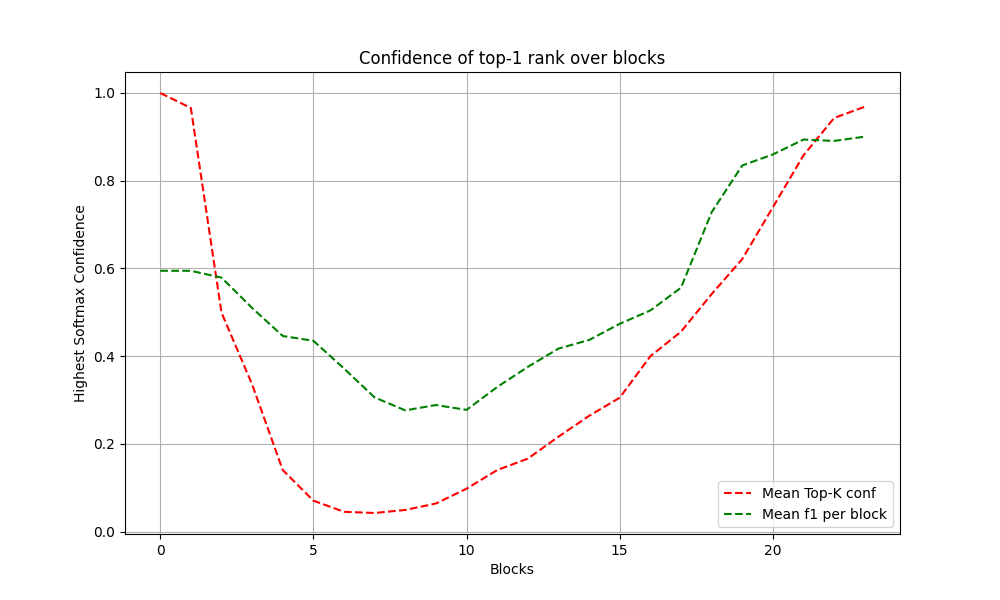
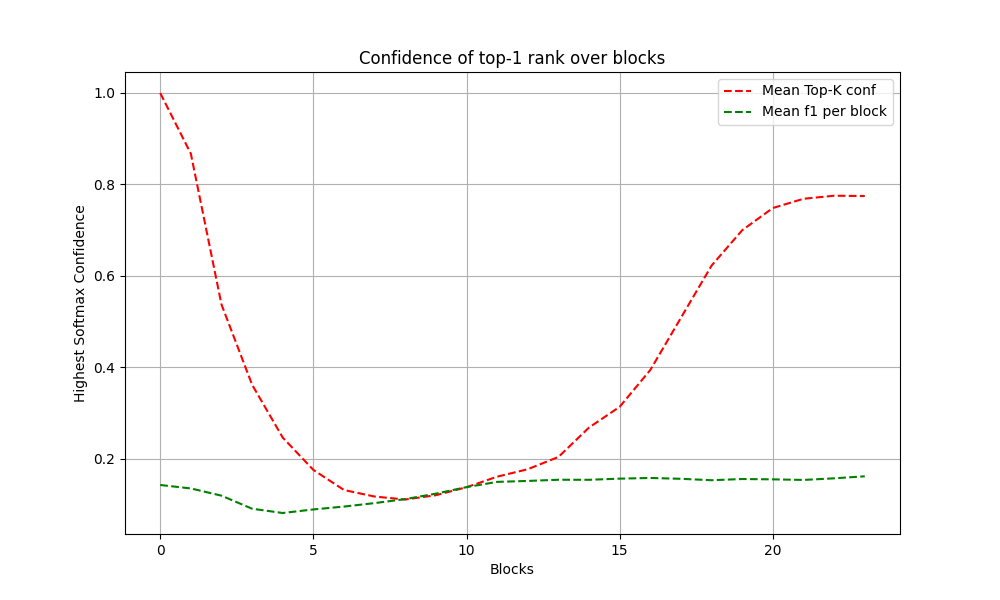
Fixed Softmax

diff --git a/run_summarization.py b/run_summarization.py
@@ -21,6 +21,10 @@ Fine-tuning the library models for sequence to sequence.
 from dataclasses import dataclass, field
 from typing import Optional
 
+import seaborn as sns
+import pandas as pd
+import matplotlib.pyplot as plt
+import copy
 import logging
 import os
 import sys
@@ -28,6 +32,8 @@ import nltk  # Here to have a nice missing dependency error message early on
 import numpy as np
 import torch
 from filelock import FileLock
+
+from sklearn.metrics import f1_score
 
 import datasets
 import evaluate
@@ -426,7 +432,7 @@ def main(model_args, data_args, training_args, additional_args, model_cls, train
 
     def compute_metrics(eval_preds, compute_metrics=True):
         if compute_metrics:
-            preds, labels, inputs = eval_preds
+            preds, labels = eval_preds
         else:
             preds, labels = eval_preds
         if isinstance(preds, tuple):
@@ -513,6 +519,147 @@ def main(model_args, data_args, training_args, additional_args, model_cls, train
             
         else:
             metrics = trainer.evaluate(metric_key_prefix="eval")
+
+        if additional_args.plotting_logits:
+            
+            filtered_labels = [[item for item in sublist if item != -100] for sublist in eval_dataset["labels"]]
+            
+
+            data = model.decoder.graph_top_k_list
+            data_conf = model.decoder.graph_top_k_confidence
+            data_top1_indices = model.decoder.graph_top_k_indices
+
+            # print("*"*100)
+            # print(filtered_labels)
+            # print("*"*100)
+            # print(data_top1_indices)
+            # print("*"*100)
+
+            full_reconstruct_predictions =  [[] for _ in range(len(model.decoder.block))]
+
+            count = 0 
+            printing_true_list = []
+            printing_pred_list = []
+            final_labels = copy.deepcopy(filtered_labels)
+            for true_predictions_data in filtered_labels:
+                reconstruct_predictions = [[] for _ in range(len(model.decoder.block))]
+                prediction_lenght = 0 
+                while len(true_predictions_data) != 0:
+                    # Model vs token prediction
+                    true_value = true_predictions_data.pop(0)
+
+                    if prediction_lenght == data_args.max_eval_samples -1:
+                        break
+                    try:
+                        predict_token_model = data_top1_indices[count]
+                    except:
+                        break
+                
+                    printing_true_list.append(tokenizer.decode(true_value))
+                    printing_pred_list.append(tokenizer.decode(predict_token_model))
+
+                    #print("Predict token", predict_token_model)
+                    for i in range(len(model.decoder.block)):
+                        reconstruct_predictions[i].append(predict_token_model[i])
+
+                    # If the model predicts end of sentence but not the true prediction
+                    if predict_token_model[-1] == 1 and true_value != 1:
+                        data_top1_indices.insert(count+1, [1]*len(predict_token_model)) # Insert a one right after the end of sentence token
+
+                    # If the model predicts a token but the true prediction is end of sentence
+                    if predict_token_model[-1] != 1 and true_value == 1:
+                        true_predictions_data.append(1)
+
+                    if predict_token_model[-1] == 1 and true_value == 1:
+                        count += 1
+                        break
+                                        
+                    count += 1
+                    prediction_lenght += 1 
+                
+                for i in range(len(model.decoder.block)):
+                    full_reconstruct_predictions[i].append(reconstruct_predictions[i])           
+
+            # print("true list", printing_true_list)
+            # print("pred lsit", printing_pred_list)
+            f1_score_list = []
+            
+            for full_block_prediction in full_reconstruct_predictions:
+                # Ensure each prediction is a single list of integers
+                f1 = 0
+                for index, true_labels in enumerate(final_labels): 
+                    prediction = full_block_prediction[index]                
+                    # max_len = max(len(prediction), len(true_labels))
+                    # padded_prediction = prediction + [0] * (max_len - len(prediction))
+                    # padded_true = true_labels + [0] * (max_len - len(true_labels))
+
+                    all_labels = list(set(prediction + true_labels))
+                    pred_binary = [1 if label in prediction else 0 for label in all_labels]
+                    true_binary = [1 if label in true_labels else 0 for label in all_labels]
+
+                    # Compute F1 score
+                    block_f1 = f1_score(true_binary, pred_binary, average='binary')
+                    f1 += block_f1
+                f1_score_list.append(f1/len(final_labels))
+
+
+
+            max_length = max(len(arr) for arr in data)
+
+            # Pad arrays with NaNs to ensure they are all the same length
+            padded_data = [np.pad(np.array(arr, dtype=float),  # Convert array to float
+                        (0, max_length - len(arr)),
+                        mode='constant',
+                        constant_values=np.nan)
+                for arr in data]
+            
+            padded_conf = [np.pad(np.array(arr, dtype=float),  # Convert array to float
+                        (0, max_length - len(arr)),
+                        mode='constant',
+                        constant_values=np.nan)
+                for arr in data_conf]
+
+            # Convert the list of arrays into a single NumPy array
+            padded_array = np.array(padded_data)
+            padded_conf_array = np.array(padded_conf)
+
+            # Converting the array to a DataFrame for easier handling in seaborn
+            df = pd.DataFrame(padded_array)
+
+            # Creating a boxplot
+            plt.figure(figsize=(12, 8))
+            sns.boxplot(data=df)
+            plt.title('Boxplot for Each Block')
+            plt.xlabel('Block')
+            plt.ylabel('Top-K value')
+            plt.grid(True)
+            plt.savefig("boxplot_topk_rank_eval.png")
+
+            # Compute the mean of the first column
+            mean_block = np.nanmean(padded_array, axis=0)
+            mean_conf_block = np.nanmean(padded_conf_array, axis=0)
+
+            # Plotting
+            blocks = np.arange(mean_block.size)
+
+            plt.figure(figsize=(10, 6))
+            plt.plot(blocks, mean_block, label='Mean Top-K rank', color='midnightblue')
+            plt.title('Mean, Max and Min top-k rank over blocks')
+            plt.xlabel('Blocks')
+            plt.ylabel('Top-K rank')
+            plt.legend()
+            plt.grid(True)
+            plt.savefig("mean_topk_rank_eval.png")
+
+            plt.figure(figsize=(10, 6))
+            plt.plot(blocks, mean_conf_block, label='Mean Top-K conf', color='red', linestyle='dashed')
+            plt.plot(blocks, f1_score_list, label='Mean f1 per block', color='green', linestyle='dashed')
+            plt.title('Confidence of top-1 rank over blocks')
+            plt.xlabel('Blocks')
+            plt.ylabel('Highest Softmax Confidence')
+            plt.legend()
+            plt.grid(True)
+            plt.savefig("conf_acc_graph.png")
         
         max_eval_samples = data_args.max_eval_samples if data_args.max_eval_samples is not None else len(eval_dataset)
         metrics["eval_samples"] = min(max_eval_samples, len(eval_dataset))

diff --git a/models/deploying_t5.py b/models/deploying_t5.py
@@ -746,6 +746,10 @@ class DeployT5Stack(T5Stack):
         self.deploy_time['time_others'] += (datetime.datetime.now() - start)
         
         return hidden_states, present_key_value_states
+    
+    
+    def func_inverse(self, i, k1, k2, num_layers): # this is the function for doing smoothed pruning
+        return max(k2, int(k1 / (1 + (k1 - k2) / k2 * i / num_layers)))
 
     def forward(
         self,
@@ -982,41 +986,37 @@ class DeployT5Stack(T5Stack):
                         if self.config.use_synchronize: torch.cuda.synchronize()
                         start = datetime.datetime.now()
                         _hidden_states = self.dropout(self.final_layer_norm(hidden_states))
-                        lm_logits = lm_head(_hidden_states) if not self.config.tie_word_embeddings \
-                            else lm_head(_hidden_states * (self.config.d_model ** -0.5))
+
                         
                         # SHRINKING VOCAB PART:
                         if not self.config.type_vocab_reduct: # If we are not using any vocab reduction
-                            lm_logits = lm_head(_hidden_states)
+                            lm_logits = lm_head(_hidden_states) if not self.config.tie_word_embeddings \
+                                else lm_head(_hidden_states * (self.config.d_model ** -0.5))
                         else:
-                            starting_layer = self.config.exit_min_layer if self.config.exit_min_layer is not None else 1 # Start where exit_min_layer is set.
-                            if i == starting_layer: # if it is the first layer
-                                lm_logits = lm_head(_hidden_states)
+                            starting_layer = self.config.exit_min_layer if self.config.exit_min_layer > 1  else 2 # Start where exit_min_layer is set or start at 2.
+                            if i == starting_layer: # if it is the first layer where we compute the logits
+                                lm_logits = lm_head(_hidden_states) if not self.config.tie_word_embeddings \
+                                    else lm_head(_hidden_states * (self.config.d_model ** -0.5))
                                 # Get the top 2500 logits at block 1.
-                                k = 2500 # TO DO: DEFINED THIS AS ARGUMENT self.config.top_k when it works!!!
-                                _, self.top_k_indices = torch.topk(lm_logits, k, largest=True, sorted=True)
-                                self.top_k_indices = self.top_k_indices.flatten() # TO DO: Find a faster way to do this
-                                # print("top_k_indices at block 1 is", self.top_k_indices.shape)
+                                maximum_k_size = 4500 # where 200 is the maximum number of weights to keep ( it actually immediately decreases so it is lower thatn this)
+                                minimum_k_size = 50 # where 50 is the minimum number of weights to keep
+                                num_layers = len(self.block) # This is the number of layers in the model
+                                k = self.func_inverse(i,maximum_k_size, minimum_k_size, num_layers)
+                                self.top_k_indices = torch.topk(lm_logits, k, largest=True, sorted=True)[1][0][0]
                                 selected_weights = lm_head.weight[self.top_k_indices, :] # THis can be done here to win some compute time
                             else: # For all the other layers either use fixed, decaying or adaptive pruning
-                                if self.config.type_vocab_reduct == "fixed": 
+                                if self.config.type_vocab_reduct == "fixed":
                                     # Note: There is no bias in self.lm_head = nn.Linear(config.d_model, config.vocab_size, bias=False)
                                     lm_logits = torch.nn.functional.linear(_hidden_states, selected_weights) # Get new logits with the top-200 weights
                                     # Note: Using nn.functional.linear should always outperform (in terms of time) the lm_head(_hidden_states) as it uses the same function but with the whole data.
                                 elif self.config.type_vocab_reduct == "decaying":  # Smoothed pruning! For all the other layers -> smoothed pruning
-                                    def func_inverse(i, k1, k2, num_layers): # this is the function for doing smoothed pruning
-                                        return max(k2, int(k1 / (1 + (k1 - k2) / k2 * i / num_layers)))
-                                    #maximum_k_size = 200 # where 200 is the maximum number of weights to keep ( it actually immediately decreases so it is lower thatn this)
-                                    #minimum_k_size = 20 # where 20 is the minimum number of weights to keep
-                                    #current_k = func_inverse(i,maximum_k_size, minimum_k_size, 12) # TO DO: 12 is the number of layers in the base model adapt it to either base or large.
-                                    
-                                    top_k_list = [4500, 2500, 2000, 1000, 750, 700, 600, 500, 400, 300, 100, 50] # This is the list of top_k values for each block based on graph.
-                                    selected_weights = lm_head.weight[self.top_k_indices[:top_k_list[i]], :]
+                                    current_k = self.func_inverse(i,maximum_k_size, minimum_k_size, num_layers)
+                                    # top_k_list = [4500, 2500, 2000, 1000, 750, 700, 600, 500, 400, 300, 100, 50] # This is the list of top_k values for each block based on graph for based as an indicator.
+                                    selected_weights = lm_head.weight[self.top_k_indices[:current_k], :]
 
                                     # Use these selected weights to compute the logits for this layer.
                                     lm_logits = torch.nn.functional.linear(hidden_states, selected_weights)
                                 elif self.config.type_vocab_reduct == "adaptive":
-                                    if len(previous_logits > 0):
                                         # TODO experiment with not only the top-1 confidence but combining the top-k confidences
                                         # TODO experiment with taking the top-k not (only) in the starting layer
                                         # TODO experiment with different formulas to go from confidence value to retained indices
@@ -1026,13 +1026,9 @@ class DeployT5Stack(T5Stack):
                                         retained_top_k = int(curr_weights_size * (1 - conf * conf_scaling_factor))
                                         selected_weights = lm_head.weight[self.top_k_indices[:retained_top_k], :]
                                         lm_logits = torch.nn.functional.linear(_hidden_states, selected_weights)
-                                    else: 
-                                        lm_logits = torch.nn.functional.linear(_hidden_states, lm_head.weight)
-
                                 else: 
                                     raise("Please provide a valid type_vocab_reduct argument. Either use fixed, decaying, or adaptive.")
-                        
-                        
+                
                         if self.config.exit_conf_type == "contrastive_decoding":
                             
                             skip_mask = get_skip_mask_cd(

diff --git a/models/deploying_longt5.py b/models/deploying_longt5.py
@@ -224,6 +224,9 @@ class DeployLongT5Block(LongT5Block):
 class DeployLongT5Stack(LongT5Stack):
     def __init__(self, config, embed_tokens=None):
         super().__init__(config, embed_tokens)
+        self.graph_top_k_list = []
+        self.graph_top_k_confidence = []
+        self.graph_top_k_indices = []
         
         self.embed_tokens = embed_tokens
         self.is_decoder = config.is_decoder
@@ -546,7 +549,14 @@ class DeployLongT5Stack(LongT5Stack):
         self.lm_logits = None  # to prevent calculating logits twice
 
         prev_probits = {}
+        previous_logits = []
         for i, layer_module in enumerate(self.block):
+
+            if self.is_decoder and self.config.plotting_logits:
+                _hidden_states = self.dropout(self.final_layer_norm(hidden_states))
+                _hidden_states = (_hidden_states * (self.config.d_model ** -0.5)) if self.config.tie_word_embeddings else _hidden_states
+                lm_logits = lm_head(_hidden_states)
+                previous_logits.append(lm_logits)
                 
             # Static framework
             if self.is_decoder and self.config.static_exit_layer is not None:
@@ -745,6 +755,52 @@ class DeployLongT5Stack(LongT5Stack):
                 for idx, t in enumerate(layer_module.key_value_gen_time): self.deploy_time[prefix + 'key_value_gen'][idx] += t
                 for idx, t in enumerate(layer_module.attn_time): self.deploy_time[prefix + 'attn'][idx] += t
                 self.deploy_time[prefix + 'ffn'] += layer_module.ffn_time
+
+
+            if self.is_decoder and self.config.plotting_logits:
+                # Get the top-1 index of last block.
+                index_top_1 = torch.topk(previous_logits[-1], 1)[1][0][0][0].item()
+                #print(torch.softmax(previous_logits[-1], dim=-1).shape)
+                confidence, max_index = torch.max(torch.softmax(previous_logits[-1], dim=-1), dim=-1)
+                confidence = confidence[0].item()
+                max_index_start = max_index[0].item()
+
+                # Initialize a list to store ranks at each layer
+                ranks_at_layers = []
+                confidences_at_layers = []
+                max_indices_at_layers = []
+
+                # Loop over previous layers in reverse order, stopping at the first layer
+                for i in range(len(previous_logits) - 1, -1, -1):
+                    # Get the sorted indices for this layer's logits
+                    sorted_indices = torch.argsort(previous_logits[i][-1], descending=True)
+
+                    # Find the rank of the top-1 index of the last block in the sorted indices of block i
+                    rank = np.where(sorted_indices.cpu() == index_top_1)[-1]
+                    #conf = torch.max(torch.softmax(previous_logits[i], dim=-1), dim=-1)[0].item()
+
+                    conf, max_index = torch.max(torch.softmax(previous_logits[i], dim=-1), dim=-1)
+                    conf = conf[0].item()
+                    max_index = max_index[0].item()
+                    #print(i ,rank, conf)
+                    # Store the rank positions
+                    ranks_at_layers.append(rank[0])
+                    confidences_at_layers.append(conf)
+                    max_indices_at_layers.append(max_index)
+                        
+                ranks_at_layers.reverse() # Reverse the list to have the ranks in the correct order
+                #ranks_at_layers.append(0) # Append 0 to the end of the list to represent the rank at the last layer
+
+                confidences_at_layers.reverse() # Reverse the list to have the ranks in the correct order
+                #confidences_at_layers.append(confidence) # Append 0 to the end of the list to represent the rank at the last layer
+
+                max_indices_at_layers.reverse() # Reverse the list to have the ranks in the correct order
+                #max_indices_at_layers.append(max_index_start)
+
+                self.graph_top_k_list.append(ranks_at_layers) # Append the ranks at each layer to the list of ranks
+                self.graph_top_k_confidence.append(confidences_at_layers) # Append the ranks at each layer to the list of ranks
+                self.graph_top_k_indices.append(max_indices_at_layers)
+
 
             if self.config.use_synchronize: torch.cuda.synchronize()
             start = datetime.datetime.now()

diff --git a/sum_lib/trainer_sum.py b/sum_lib/trainer_sum.py
@@ -118,7 +118,7 @@ class SumTrainer(Seq2SeqTrainer):
         )
 
         # output.predictions contains the generated tokens
-        print(self.tokenizer.batch_decode(output.predictions, skip_special_tokens=True))
+        #print(self.tokenizer.batch_decode(output.predictions, skip_special_tokens=True))
             
         total_batch_size = self.args.eval_batch_size * self.args.world_size
         if f"{metric_key_prefix}_jit_compilation_time" in output.metrics:
@@ -249,8 +249,8 @@ class SumTrainer(Seq2SeqTrainer):
             loss, logits, labels = self.prediction_step(model, inputs, prediction_loss_only, ignore_keys=ignore_keys)
             inputs_decode = self._prepare_input(inputs["input_ids"]) if args.include_inputs_for_metrics else None
 
-            print(self.tokenizer.decode(inputs["input_ids"][0], skip_special_tokens=True))
-            print("-END CONTEXT-")
+            #print(self.tokenizer.decode(inputs["input_ids"][0], skip_special_tokens=True))
+            #print("-END CONTEXT-")
 
             if is_torch_tpu_available():
                 xm.mark_step()

diff --git a/qa_lib/trainer_qa.py b/qa_lib/trainer_qa.py
@@ -122,7 +122,7 @@ class QATrainer(Seq2SeqTrainer):
         )
 
         # output.predictions contains the generated tokens
-        print(self.tokenizer.batch_decode(output.predictions, skip_special_tokens=True))
+        #print(self.tokenizer.batch_decode(output.predictions, skip_special_tokens=True))
 
         # 
 
@@ -269,8 +269,8 @@ class QATrainer(Seq2SeqTrainer):
             loss, logits, labels = self.prediction_step(model, inputs, prediction_loss_only, ignore_keys=ignore_keys)
             inputs_decode = self._prepare_input(inputs["input_ids"]) if args.include_inputs_for_metrics else None
 
-            print(self.tokenizer.decode(inputs["input_ids"][0], skip_special_tokens=True))
-            print("-END CONTEXT-")
+            #print(self.tokenizer.decode(inputs["input_ids"][0], skip_special_tokens=True))
+            #print("-END CONTEXT-")
     
 
             if is_torch_tpu_available():
